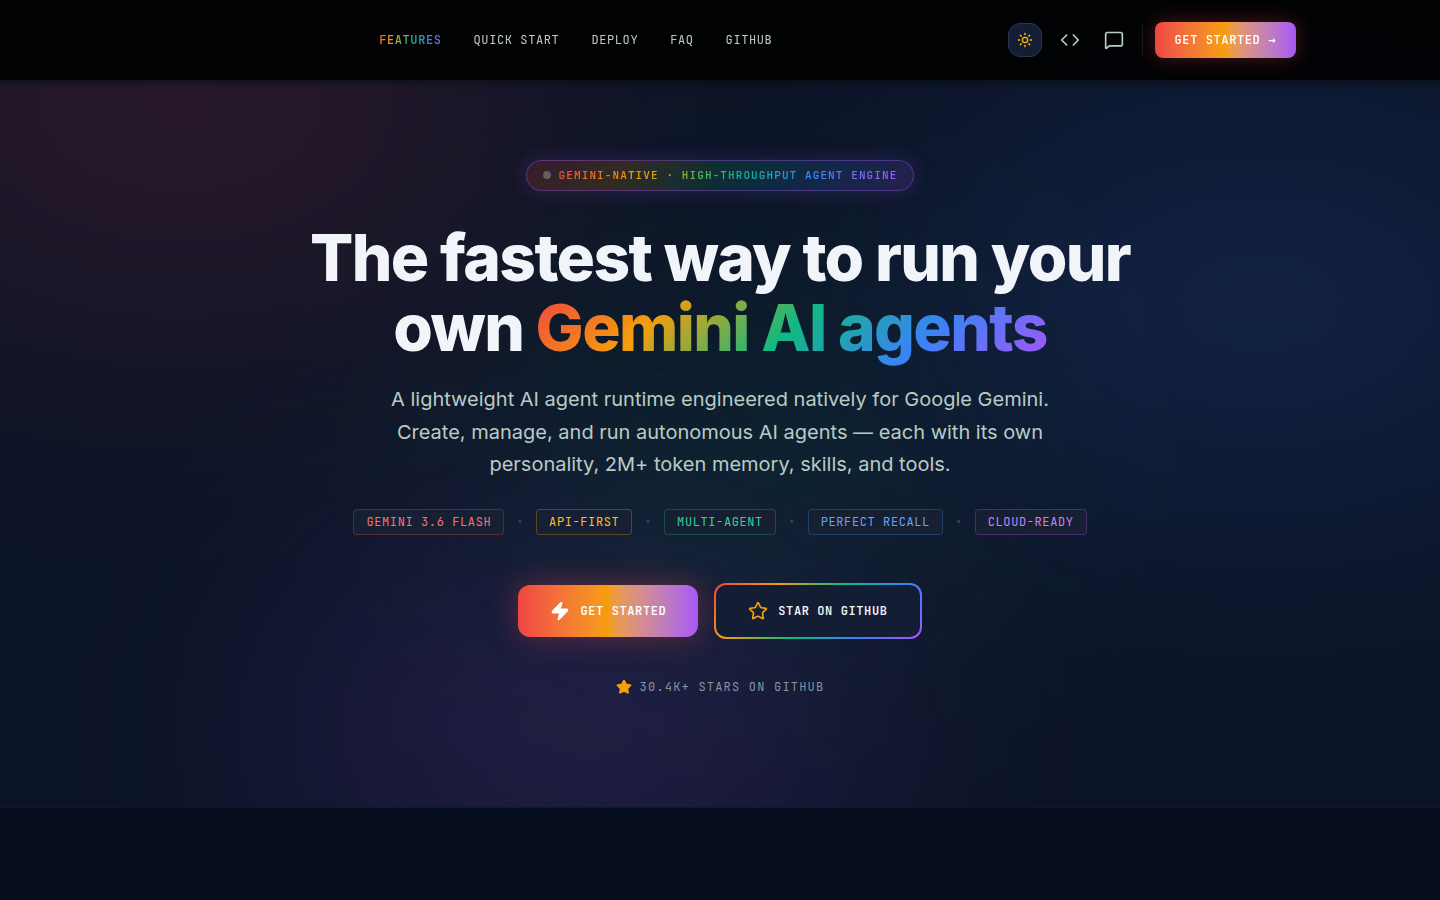
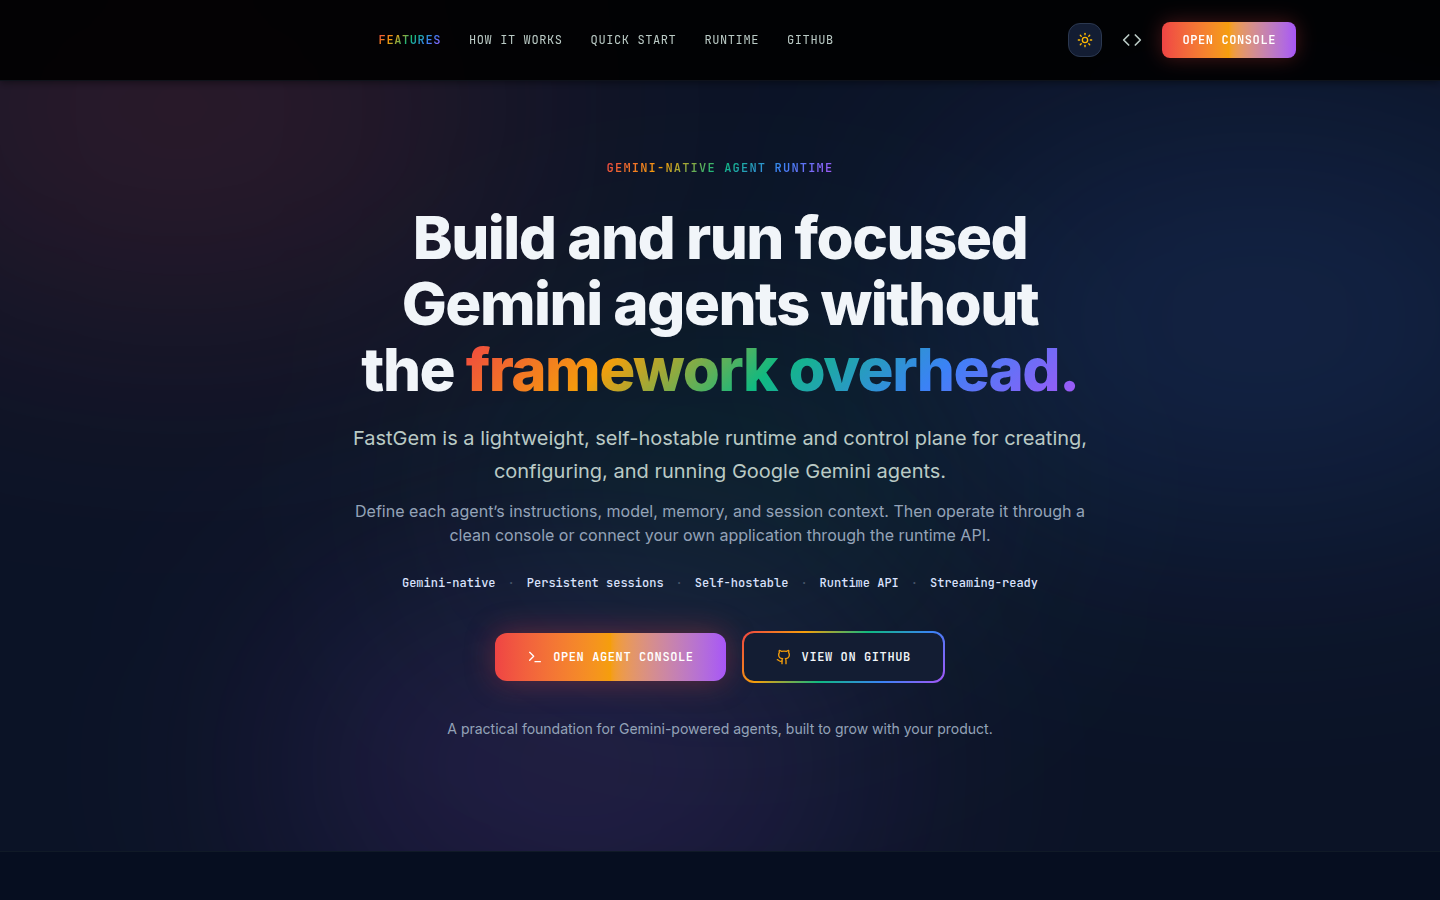
docs: refresh product copy and previews

diff --git a/README.md b/README.md
@@ -2,197 +2,157 @@
   <img src="https://i.imgur.com/hkRlTDp.png" alt="FastGem Logo" width="320" />
 </p>
 
-<h1 align="center">FastGem 💎</h1>
+<h1 align="center">FastGem</h1>
 
 <p align="center">
-  <strong>High-Throughput Gemini AI Agent Runtime</strong><br>
-  Engine powered natively for Google Gemini 3.6 Flash, Gemini 3.1 Pro, and Flash-Lite.
+  <strong>Build and run focused Gemini agents without the framework overhead.</strong><br>
+  A lightweight, self-hostable runtime and control plane for Google Gemini agents.
 </p>
 
 <p align="center">
-  <a href="https://github.com/JQCVSC/FastGem"><img src="https://img.shields.io/badge/GitHub-JQCVSC%2FFastGem-blue?logo=github" alt="GitHub Repository"></a>
-  <a href="https://github.com/JQCVSC/FastGem#license"><img src="https://img.shields.io/badge/License-Community-orange.svg" alt="License"></a>
-  <a href="https://pypi.org/project/fastgem"><img src="https://img.shields.io/badge/Python-3.9%2B-3776AB?logo=python" alt="Python"></a>
-  <a href="https://github.com/JQCVSC/FastGem"><img src="https://img.shields.io/badge/Docker-Ready-2496ED?logo=docker" alt="Docker"></a>
+  <a href="https://github.com/JQCVSC/FastGem"><img src="https://img.shields.io/badge/Runtime-FastGem-blue?logo=github" alt="FastGem Runtime"></a>
+  <a href="https://github.com/JQCVSC/FastGem-Landing-page"><img src="https://img.shields.io/badge/Website-FastGem-orange" alt="FastGem Website"></a>
+  <a href="https://github.com/JQCVSC/FastGem#license"><img src="https://img.shields.io/badge/License-Source--Available-orange.svg" alt="License"></a>
 </p>
 
 ---
 
-## 🚀 What is FastGem?
+## What is FastGem?
 
-**FastGem** is a lightweight, high-performance runtime engineered specifically to build, deploy, and manage autonomous Google Gemini AI agents. Designed with a native Python-first architecture, FastGem unlocks sub-second function calling, native structured JSON outputs, multi-source memory recall, and full 2M+ token context window utilization with minimal resource overhead.
+FastGem is a Gemini-native agent runtime and web control plane. It gives each agent its own identity, system instructions, model configuration, and persistent sessions, then exposes those agents through a clean console and HTTP API.
 
----
+The project is intentionally focused: a React website and console in front of a TypeScript/Express runtime that calls Google Gemini through `@google/genai`. The current runtime keeps agent and session data in local JSON storage so it is easy to run and inspect during development.
 
-## 📁 Workspace Architecture
+FastGem is not an AI model. It is the runtime and product foundation around Google Gemini.
 
-A standard FastGem agent workspace is structured as follows:
+## Current capabilities
 
-```plaintext
-my-agent/
-├── SOUL.md              # System Instructions & Agent Persona
-├── MEMORY.md            # Long-term persistent facts & state
-├── tools/               # Custom Python execution tools
-│   ├── web_search.py
-│   └── custom_tool.py
-└── fastgem.config.json   # Agent runtime configuration
+- Gemini-powered agent execution through the FastGem runtime.
+- Agent records with names, descriptions, system instructions, models, tools metadata, and timestamps.
+- Persistent local sessions and conversation history.
+- React console with agent overview, model settings, API-oriented views, and Agent Studio.
+- Agent Studio connected to the runtime through `VITE_FASTGEM_RUNTIME_URL`.
+- Runtime health, agent, session, run, and streaming endpoints.
+- A separate landing-page website that explains the architecture and provides the console entry point.
+- Product preview screenshots in [`public/previews/`](public/previews/).
+
+## Architecture
+
+```text
+FastGem-Landing-page       FastGem
+React website + console  → TypeScript/Express runtime → Google Gemini API
+                              ↓
+                         local agents/sessions
 ```
 
----
+The repositories are intentionally separated:
 
-## ✨ Key Features
+- **Website and console:** [`JQCVSC/FastGem-Landing-page`](https://github.com/JQCVSC/FastGem-Landing-page)
+- **Runtime and API:** [`JQCVSC/FastGem`](https://github.com/JQCVSC/FastGem)
 
-- **⚡ Native Gemini 3 Engine**: Built from the ground up to leverage **Gemini 3.6 Flash**, **Gemini 3.1 Pro**, and **Flash-Lite**.
-- **🧠 2M+ Context Window & Multi-Source Memory**: Seamlessly manage complex, multi-turn agent loops with persistent memory files (`SOUL.md`, `MEMORY.md`).
-- **🛠 Sub-Second Tool Execution**: Execute custom Python scripts, terminal commands, web fetchers, and AST parsers in a safe sandbox.
-- **🔌 Multi-Channel Integration**: Route agents to Discord, Telegram, Slack, Webhooks, or REST APIs effortlessly.
-- **🐳 Enterprise Containerization**: Ready for 1-click deployments on Google Cloud Run, GCP, AWS, or DigitalOcean via Docker or PyPI.
+## Local development
 
----
-
-## ⚙ Environment Configuration
-
-| Environment Variable | Description | Default | Required |
-| :--- | :--- | :--- | :---: |
-| `GEMINI_API_KEY` | Your Google Gemini API Key | — | **Yes** |
-| `FASTGEM_MODEL` | Default model (`gemini-3.6-flash`, `gemini-3.1-pro`) | `gemini-3.6-flash` | No |
-| `FASTGEM_PORT` | Port for FastGem runtime & channel webhooks | `8000` | No |
-| `FASTGEM_LOG_LEVEL` | Logging verbosity level (`DEBUG`, `INFO`, `WARN`) | `INFO` | No |
-| `TELEGRAM_BOT_TOKEN` | Token for Telegram Channel Gateway integration | — | No |
-| `DISCORD_BOT_TOKEN` | Token for Discord Channel Gateway integration | — | No |
-
----
-
-## 📦 Quick Start & Installation
-
-### Option 1: Install via PyPI (Recommended)
+Start the runtime first:
 
 ```bash
-pip install fastgem
-fastgem init my-agent
-cd my-agent
-fastgem run
-```
-
-### Option 2: Curl Shell Installer
-
-```bash
-curl -fsSL https://raw.githubusercontent.com/JQCVSC/FastGem/main/install | bash
-```
-
-### Option 3: Docker Container
-
-```bash
-docker run -d -p 8000:8000 -e GEMINI_API_KEY=$GEMINI_API_KEY ghcr.io/jqcvsc/fastgem:latest
-```
-
----
-
-## 💻 SDK Usage Example
-
-### Python SDK & Channel Gateway
-
-```python
-import os
-from fastgem import FastGem, FastGemChannel
-
-# 1. Initialize FastGem agent client
-client = FastGem(api_key=os.getenv("GEMINI_API_KEY"))
-
-response = client.agent.run(
-    agent_id="researcher",
-    prompt="Summarize the latest Gemini 3.6 Flash benchmarks",
-    model="gemini-3.6-flash"
-)
-print(response.text)
-
-# 2. Bind Agent to Messaging Channels (Telegram, Discord, Slack)
-gateway = FastGemChannel(agent_id="researcher")
-gateway.bind_webhook(platform="telegram", bot_token=os.getenv("TELEGRAM_BOT_TOKEN"))
-gateway.bind_webhook(platform="discord", bot_token=os.getenv("DISCORD_BOT_TOKEN"))
-gateway.listen(port=8000)
-```
-
-### TypeScript SDK
-
-```typescript
-import { FastGemClient } from '@fastgem/sdk';
-
-const client = new FastGemClient({
-  apiKey: process.env.GEMINI_API_KEY,
-});
-
-const result = await client.agents.run({
-  agentId: 'researcher',
-  prompt: 'Analyze high-throughput agent loops',
-  model: 'gemini-3.1-pro',
-});
-
-console.log(result.response);
-```
-
-### cURL / REST API
-
-```bash
-curl -X POST https://api.fastgem.ai/v1/agent/run \
-  -H "Authorization: Bearer $GEMINI_API_KEY" \
-  -H "Content-Type: application/json" \
-  -d '{
-    "prompt": "Summarize the latest Gemini 3.6 benchmarks",
-    "model": "gemini-3.1-pro",
-    "tools": ["web_fetch", "memory_search"]
-  }'
-```
-
----
-
-## ❓ Frequently Asked Questions (FAQ)
-
-### What is FastGem?
-FastGem is a lightweight runtime engineered specifically to deploy and manage high-throughput Google Gemini AI agents.
-
-### How does FastGem compare to generic agent frameworks?
-Unlike heavy generic frameworks, FastGem is optimized natively for Gemini's 2M+ token context window, structured JSON outputs, and fast streaming performance.
-
-### Can I host FastGem on my own server?
-Yes! FastGem can be self-hosted anywhere using Docker, Python/Node.js, or 1-click cloud deployments on Cloud Run, GCP, AWS, or DigitalOcean.
-
----
-
-## 📄 License
-
-FastGem is open-source under the **Source-Available Community License**. Free to use, inspect, modify, and self-host for internal and commercial applications.
-
-- **GitHub Repository**: [https://github.com/JQCVSC/FastGem](https://github.com/JQCVSC/FastGem)
-
-
-## Connected runtime
-
-The website’s Agent Studio now calls the FastGem runtime through `VITE_FASTGEM_RUNTIME_URL` instead of returning simulated canned responses. Run the runtime from the [`JQCVSC/FastGem`](https://github.com/JQCVSC/FastGem) repository, then point this website at it:
-
-```bash
+git clone https://github.com/JQCVSC/FastGem.git
+cd FastGem
 cp .env.example .env
-# Set VITE_FASTGEM_RUNTIME_URL=http://localhost:8000
+# Add GEMINI_API_KEY to .env
+npm install
+npm run runtime
+```
+
+In a second terminal, start the website:
+
+```bash
+git clone https://github.com/JQCVSC/FastGem-Landing-page.git
+cd FastGem-Landing-page
+cp .env.example .env
+# VITE_FASTGEM_RUNTIME_URL defaults to http://localhost:8000
 npm install
 npm run dev
 ```
 
-The current website sign-in is still a frontend demo gate. It does not validate passwords or perform Google OAuth yet. Authentication should be added as a separate identity layer before public deployment.
+Open `http://localhost:3000` and choose **Open Agent Console**. The current sign-in screen is a development preview gate; it does not yet validate passwords or perform Google OAuth.
 
+### Website environment
+
+```env
+VITE_FASTGEM_RUNTIME_URL=http://localhost:8000
+```
+
+Set this to the deployed FastGem runtime origin when the website and runtime are hosted separately.
+
+### Runtime environment
+
+```env
+GEMINI_API_KEY=
+FASTGEM_MODEL=gemini-2.5-flash
+FASTGEM_PORT=8000
+FASTGEM_DATA_DIR=.fastgem
+```
+
+Do not expose the current runtime publicly without adding authentication, HTTPS, rate limiting, secret management, and a durable production datastore.
+
+## Runtime API
+
+The current API surface is:
+
+```text
+GET  /health
+GET  /api/agents
+POST /api/agents
+GET  /api/agents/:agentId/sessions
+POST /api/agents/:agentId/sessions
+POST /api/agents/:agentId/runs
+GET  /api/agents/:agentId/runs/stream?prompt=...
+```
+
+Use these endpoints to inspect agents, create sessions, submit prompts, and connect another frontend or service to FastGem. The website’s Agent Studio uses the run endpoint and carries the returned session ID across messages.
+
+## Product workflow
+
+1. Define an agent with a purpose, system instructions, and Gemini model.
+2. Start the FastGem runtime on a machine or service you control.
+3. Point the website at the runtime with `VITE_FASTGEM_RUNTIME_URL`.
+4. Enter the console and open Agent Studio.
+5. Run prompts through a persistent session or integrate the API into your own application.
 
 ## Product previews
 
-FastGem’s website and console are designed as one continuous workflow: discover the runtime, sign in, manage agents, and open Agent Studio for hands-on testing.
+FastGem’s website and console are designed as one continuous workflow: discover the runtime, enter the development console, review agents, and open Agent Studio.
 
 ![FastGem landing page](public/previews/landing-hero.png)
 
-_Landing page — Gemini-native positioning, feature navigation, and the main Get Started entry point._
+_Landing page — Gemini-native positioning, runtime capabilities, and the Open Agent Console entry point._
 
-| Sign in | Runtime dashboard |
+| Development console entry | Runtime dashboard |
 | --- | --- |
 | ![FastGem sign-in screen](public/previews/sign-in.png) | ![FastGem console dashboard](public/previews/console-dashboard.png) |
-| Demo sign-in surface, ready for real authentication integration. | Gateway overview with agents, models, API keys, and launch controls. |
+| Development preview gate; production authentication is not enabled yet. | Agent overview with models, API-key area, runtime status, and launch controls. |
 
 ![FastGem Agent Studio](public/previews/agent-studio.png)
 
-_Agent Studio — select an agent, start a chat, and run prompts through the connected FastGem runtime._
+_Agent Studio — select an agent, start a session, and run prompts through the connected FastGem runtime._
+
+## Roadmap
+
+The next stages are deliberately focused on turning the working vertical slice into a production-ready platform:
+
+- Real production authentication and Google OAuth.
+- Durable database support and multi-user workspace isolation.
+- Secure sandboxed tool execution.
+- Multimodal file and context handling.
+- Agent evaluations, usage tracking, and cost visibility.
+- Deployment templates and operational configuration.
+- External channel integrations.
+- Team and workspace permissions.
+
+## Current status
+
+FastGem is an active development project. The runtime, website, console, and Agent Studio are connected, but several dashboard areas remain product surfaces and roadmap foundations rather than fully implemented backend capabilities. README claims should be read alongside the actual runtime code and API behavior.
+
+## License
+
+FastGem is open-source under the **Source-Available Community License**. See the [runtime repository](https://github.com/JQCVSC/FastGem) for the current license text and implementation details.
